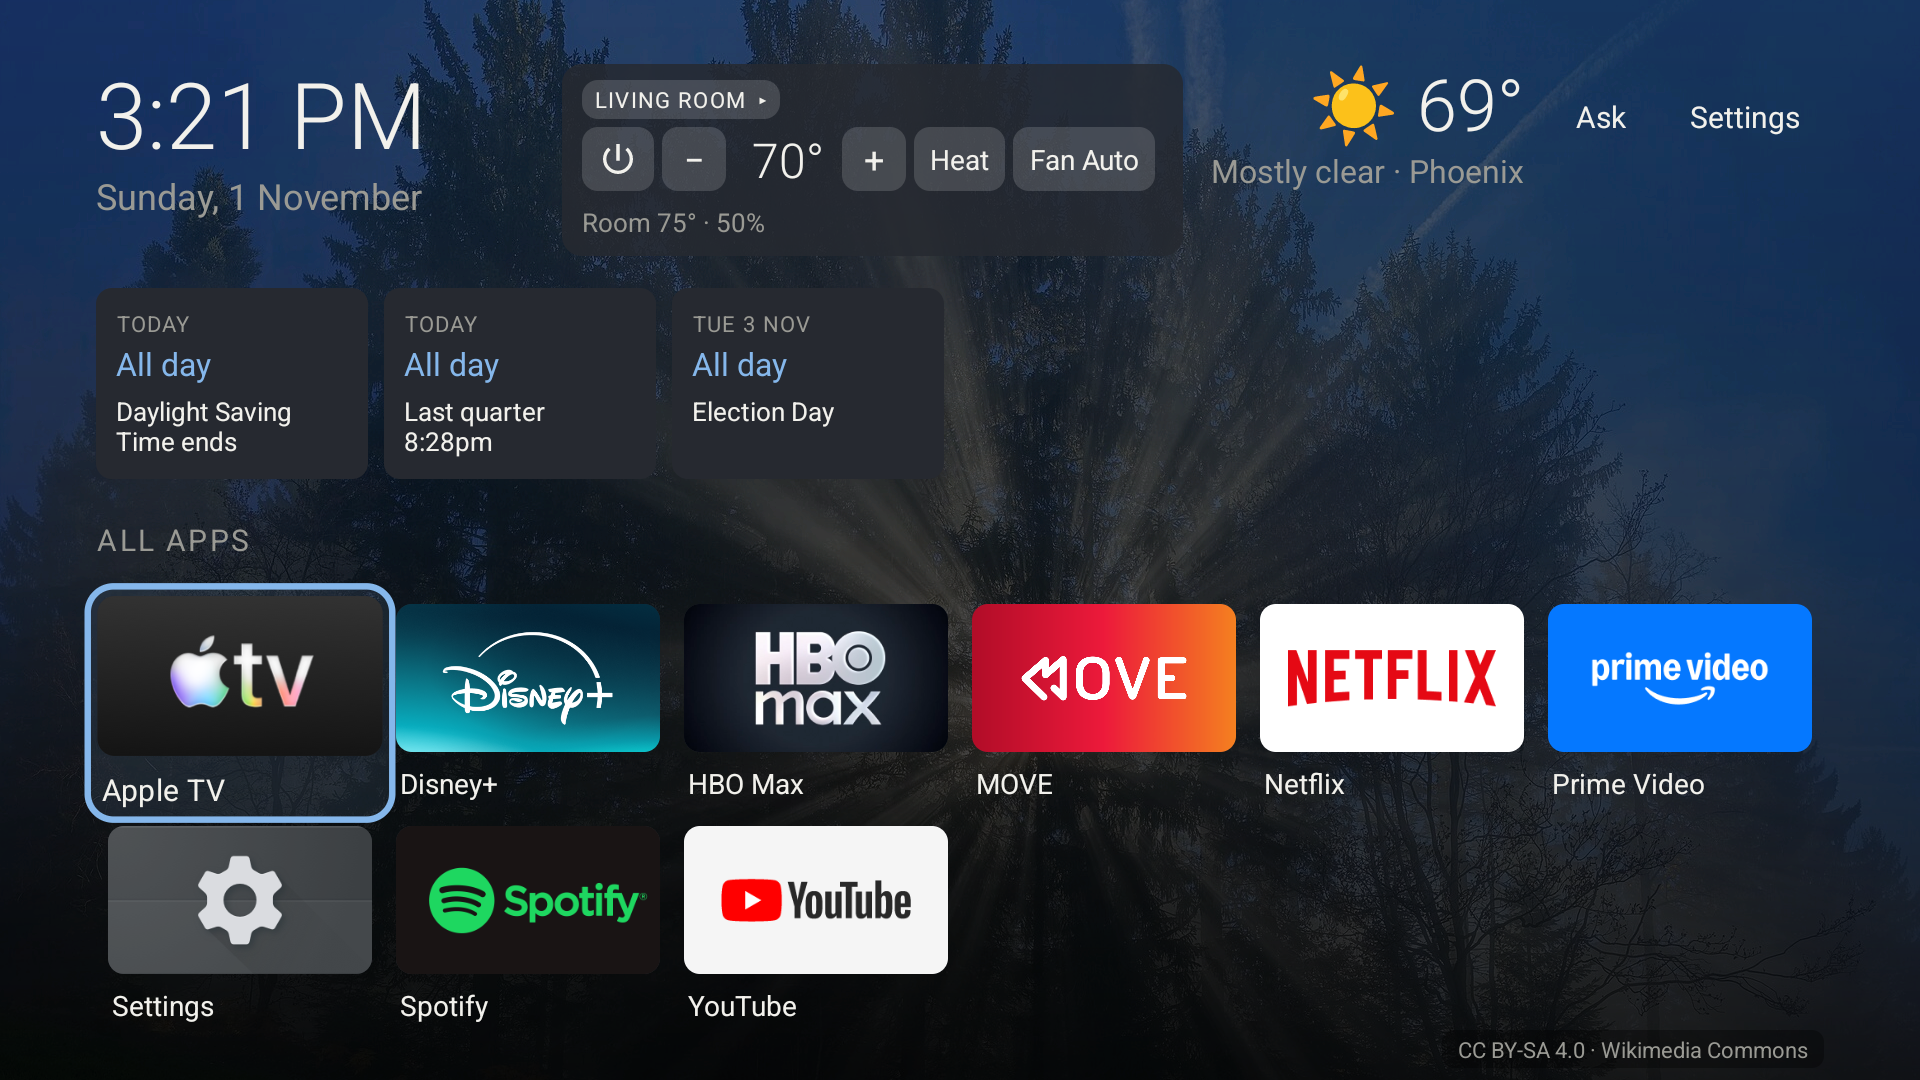
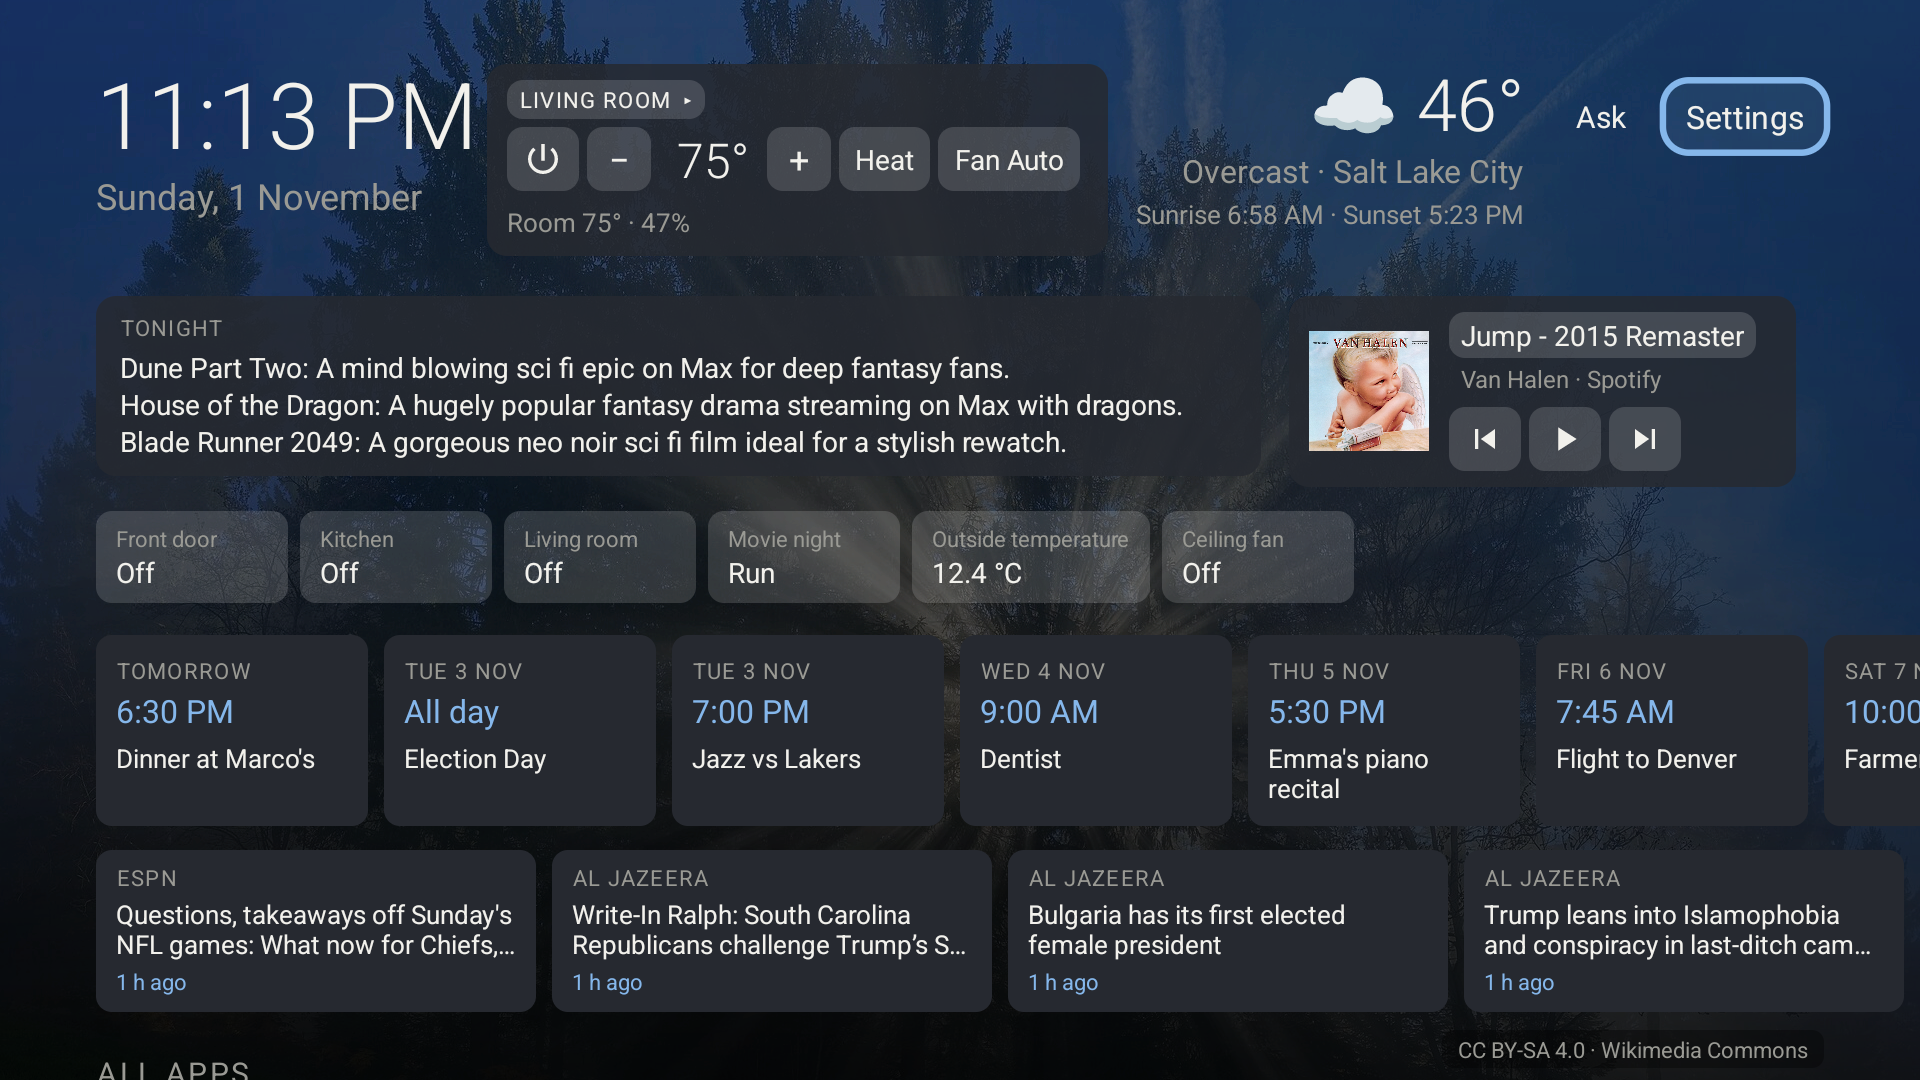
Store: new screenshot set (home with all cards, app grid, Tonight, Ask, event, Settings, screensaver); listing text, README, tester post and first-run hint updated for 1.3

diff --git a/PLAY_LISTING.md b/PLAY_LISTING.md
@@ -10,17 +10,17 @@ Everything the Play Console asks for when the app is submitted, ready to paste. 
 
 **Short description** (80 max):
 
-> A clean home screen for Google TV: all your apps, the clock, weather and calendar.
+> A calm home screen for Google TV: your apps, clock, weather, calendar, news and more.
 
 **Full description** (4000 max):
 
-> TV Launcher replaces the busy Google TV home with one calm screen: every installed app in a grid, the time and date, the weather, and the next things on your calendar. No recommendations, no ads, no accounts, no tracking.
+> TV Launcher replaces the busy Google TV home with one calm screen: every installed app in a grid, the time and date, the weather, the next things on your calendar, and optional cards for what's on tonight, the news, what's playing and your smart home. No recommendations, no ads, no accounts, no tracking.
 >
 > WHAT YOU GET
 > • All apps in one grid, sorted A–Z, using each app's TV banner. Pin favourites to the top, hide the ones you never use.
 > • Clock and date, in the TV's own 12/24-hour format.
 > • Weather from Open-Meteo for any city you type (starts with the city of your time zone).
-> • Calendar cards: paste the private ICS link of a Google, Outlook or iCloud calendar and see what's coming up over the next two days. Several feeds are merged.
+> • Calendar cards: paste the private ICS link of a Google, Outlook or iCloud calendar and see the next 7 days in a row you scroll through; press a card for the details. Several feeds are merged.
 > • Background photos: Wikimedia Commons' picture of the day, your own Unsplash key, or your own image URLs. Plain dark if you prefer.
 > • Screensaver: a full-screen slideshow of those photos with a clock and captions.
 > • Ask: press one button, speak or type a question, and get an answer from Google Gemini (free key) or Claude (paid key, with live web search). Titles the answer mentions open directly in Netflix, HBO Max, Apple TV, Disney+, Prime Video or YouTube.
@@ -37,7 +37,7 @@ Everything the Play Console asks for when the app is submitted, ready to paste. 
 > MAKING IT YOUR HOME SCREEN
 > Google TV has no "choose launcher" setting, so making TV Launcher the home screen takes a one-time step from a computer with adb (Android's debugging tool). The instructions are in the app's Settings under "Choose default launcher" and on the support page. Until you do that, TV Launcher works as a normal app you open from the Google TV home.
 >
-> Works on Android TV and Google TV devices running Android 8.0 or later. Designed for the remote's D-pad.
+> Made for Android TV and Google TV (Android 8.0 or later) and the remote's D-pad. It also installs on phones and tablets, where it works as a simple kiosk-style front screen.
 
 **Category**: Tools. **Tags**: launcher, home screen, TV.
 
@@ -50,7 +50,7 @@ Everything the Play Console asks for when the app is submitted, ready to paste. 
 | App icon | 512×512 PNG | `store/icon_512.png` |
 | Feature graphic | 1024×500 PNG | `store/feature_graphic_1024x500.png` |
 | TV banner | 1280×720 PNG (required for Android TV listings) | `store/tv_banner_1280x720.png` |
-| TV screenshots | 1920×1080, 16:9, at least one; up to eight | `store/screenshot_*.png` |
+| TV screenshots | 1920×1080, 16:9, at least one; up to eight | `store/screenshot_*.png` (home, app grid, Tonight, Ask, event details, Settings, screensaver) |
 
 ## App content declarations
 

diff --git a/TESTER_POST.md b/TESTER_POST.md
@@ -6,7 +6,7 @@
 
 Hi all, I need 12 testers for Google Play's closed-testing requirement and will test your app in return (post or DM your link).
 
-App: TV Launcher, a clean home screen for Google TV / Android TV: all apps in a grid, clock, weather, calendar cards, photo screensaver, an optional AI "Ask" panel. It is made for TV, but the test build installs on any Android phone too; on a phone it just shows the app grid, which is enough for the test.
+App: TV Launcher, a clean home screen for Google TV / Android TV: all apps in a grid, clock, weather, calendar cards, news that plays in YouTube, a daily "what's on tonight" card, a Now playing card, optional Home Assistant chips, a photo screensaver and an AI "Ask" panel. It is made for TV, but the test build installs on any Android phone or tablet too, which is enough for the test.
 
 It is a paid app ($0.99) but you will NOT pay: reply or DM me and I send you a promo code that makes it free.
 

diff --git a/README.md b/README.md
@@ -157,9 +157,9 @@ instead.
 - `PRIVACY.md`: the privacy policy (Play needs it at a public URL; a GitHub repository renders it).
 - `PLAY_LISTING.md`: listing text, permission and data-safety declarations, content-rating
   answers and the adb instructions for users, plus the release checklist.
-- `store/`: 512×512 icon, 1024×500 feature graphic, 1280×720 TV banner and six 1920×1080
-  screenshots taken on a Google TV Streamer (the calendar cards show public holiday and
-  moon-phase feeds, not a personal calendar).
+- `store/`: 512×512 icon, 1024×500 feature graphic, 1280×720 TV banner and seven 1920×1080
+  screenshots taken on a Google TV Streamer (the calendar cards come from a demo feed and the
+  Home Assistant chips from `tools/mock_ha.py`, not from a real home).
 
 ### Moving a sideloaded box to the Play build
 
